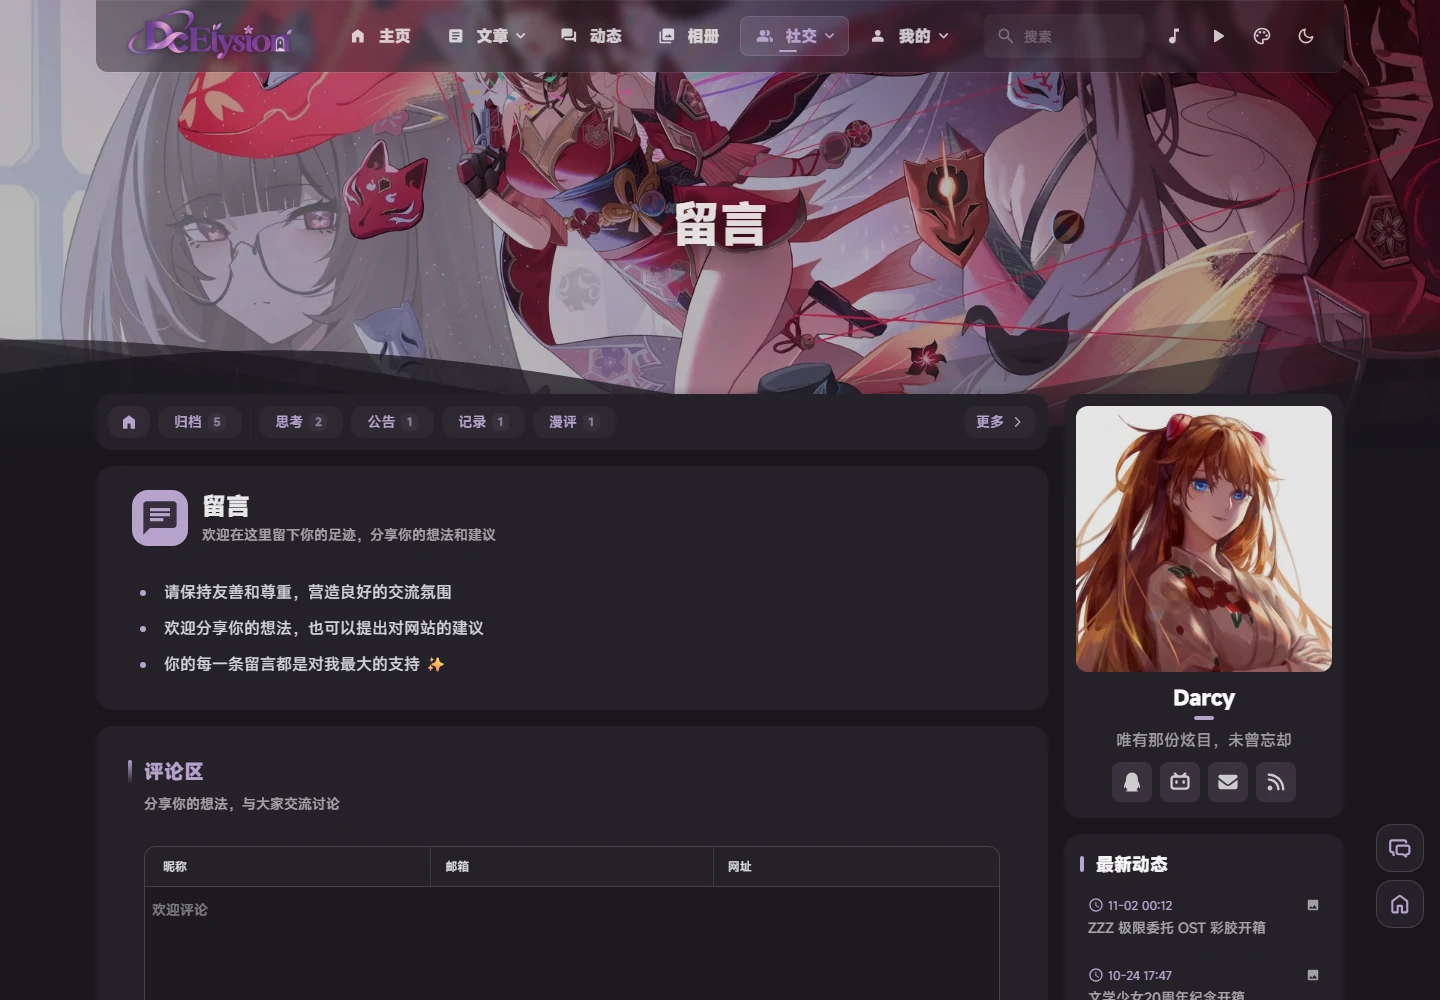
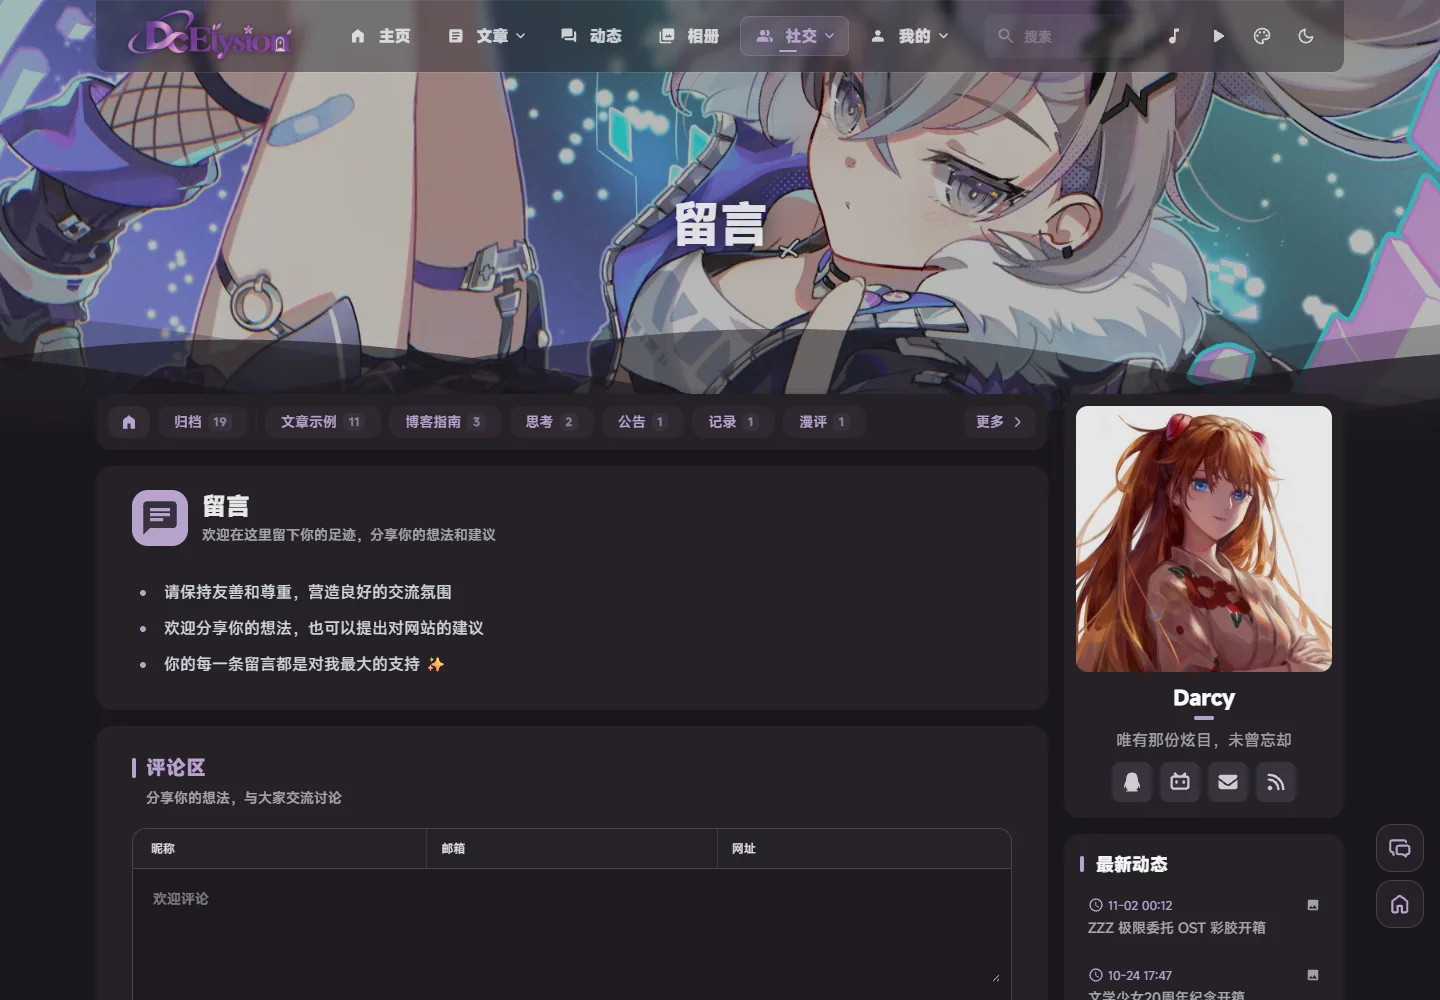
style(comment,dynamic): refine waline layout and embedded comment panel

diff --git a/src/styles/pages/dynamic.css b/src/styles/pages/dynamic.css
@@ -916,15 +916,22 @@ dynamic-feed {
 .dynamic-actions .page-comment-panel {
 	order: 7;
 	flex: 1 0 100%;
+	box-sizing: border-box;
 	width: 100%;
 	margin-top: 0.5rem;
-	padding-top: 0.875rem;
-	border-top: 1px solid var(--line-divider);
+	padding: 1rem 1.125rem 0.625rem;
+	border: 1px solid color-mix(in srgb, var(--line-divider) 110%, transparent);
+	border-radius: var(--radius-large);
+	background: color-mix(in srgb, var(--btn-regular-bg) 42%, transparent);
 }
 
 .page-entry[data-detail="true"] .dynamic-actions .page-comment-panel {
 	margin-top: 0.75rem;
-	padding-top: 1rem;
+	padding: 1.25rem 0 0;
+	border: 0;
+	border-top: 1px solid var(--line-divider);
+	border-radius: 0;
+	background: transparent;
 }
 
 .page-comment-panel[hidden] {
@@ -1162,6 +1169,11 @@ dynamic-feed {
 	color: var(--primary);
 }
 
+:root.dark .page-entry:not([data-detail="true"]) .dynamic-actions .page-comment-panel {
+	border-color: color-mix(in srgb, var(--line-color) 75%, transparent);
+	background: color-mix(in srgb, var(--btn-regular-bg) 36%, transparent);
+}
+
 /* 透明模式适配 */
 body.wallpaper-transparent .page-search input,
 body.wallpaper-transparent .page-year-select select {
@@ -1182,6 +1194,10 @@ body.wallpaper-transparent .dynamic-actions content-like [data-like-toggle],
 body.wallpaper-transparent .dynamic-actions .page-comment-toggle,
 body.wallpaper-transparent .dynamic-actions .dynamic-share-button {
 	background: color-mix(in srgb, var(--btn-regular-bg) 48%, transparent);
+}
+
+body.wallpaper-transparent .page-entry:not([data-detail="true"]) .dynamic-actions .page-comment-panel {
+	background: color-mix(in srgb, var(--btn-regular-bg) 30%, transparent);
 }
 
 @media (max-width: 768px) {
@@ -1221,6 +1237,14 @@ body.wallpaper-transparent .dynamic-actions .dynamic-share-button {
 	.page-entry--detail,
 	.page-entry[data-detail="true"] {
 		padding: 1.125rem;
+	}
+
+	.page-entry:not([data-detail="true"]) .dynamic-actions .page-comment-panel {
+		padding: 0.875rem 0.875rem 0.5rem;
+	}
+
+	.page-entry[data-detail="true"] .dynamic-actions .page-comment-panel {
+		padding-top: 1rem;
 	}
 
 	.page-detail-nav {

diff --git a/src/styles/pages/dynamic-comments.css b/src/styles/pages/dynamic-comments.css
@@ -20,7 +20,7 @@ html.dark:has(.page-comment-embed) {
 .page-comment-embed {
 	/* Contain child margins without tying content height to the iframe viewport. */
 	display: flow-root;
-	padding-bottom: 0.25rem;
+	padding-block: 0.125rem 0.25rem;
 }
 
 .page-comment-embed #post-comments {
@@ -40,11 +40,27 @@ html.dark:has(.page-comment-embed) {
 	padding-inline: 0;
 }
 
-/* 对齐 Waline 内部面板与上方图集、互动栏左右边缘 */
+/* 动态卡片内嵌评论：进一步微调输入框高度与紧凑外边距 */
 .page-comment-embed #waline .wl-comment {
-	margin-inline: 0;
+	gap: 0.875rem;
+	margin: 0 0 0.75rem;
 }
 
-.page-comment-embed #waline .wl-panel {
-	margin-inline: 0;
+.page-comment-embed #waline .wl-editor {
+	min-height: 5.75rem;
+}
+
+.page-comment-embed #waline .wl-meta-head {
+	margin-top: 0.75rem;
+	padding-top: 0.75rem;
+}
+
+.page-comment-embed #waline .wl-empty {
+	padding: 0.875rem 0;
+}
+
+@media (max-width: 640px) {
+	.page-comment-embed #waline .wl-comment {
+		gap: 0.75rem;
+	}
 }
